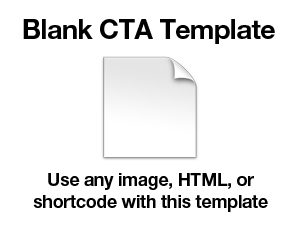
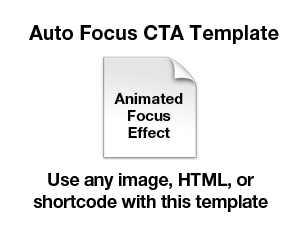
update cta thumbs

Changed region(s): [[0.06, 0.0622, 0.93, 0.1867], [0.36, 0.4044, 0.63, 0.6222]]

diff --git a/templates/clean-cta/index.php b/templates/clean-cta/index.php
@@ -50,7 +50,7 @@
   color: {{header-text-color|color}};
   text-shadow: 1px 1px 0px rgba(150, 150, 150, 0.59);
 }
-.cover p#clean-sub-head-text {
+.cover #clean-sub-head-text, #clean-sub-head-text h1,#clean-sub-head-text h2,#clean-sub-head-text h3,#clean-sub-head-text h4,#clean-sub-head-text h5,#clean-sub-head-text h6 {
   color: {{sub-header-text-color|color}};
 }
 .clean-button {
@@ -81,7 +81,10 @@
   color: #{{bottom-text-color}};
 }
 #clean-sub-head-text {
-  padding: 0px 10px 0px 10px;
+  text-align: center;
+  padding: 10px;
+  padding-left: 30px;
+  padding-right: 30px;
 }
 
 #cta-button {
@@ -94,7 +97,7 @@
 
     <h1>{{ header-text }}</h1>
 
-    <p id="clean-sub-head-text">{{sub-header-text}}</p>
+    <div id="clean-sub-head-text">{{sub-header-text}}</div>
   </div>
   <div class="button-list">
     <a href="{{link_url}}" id="cta-button" class="clean-button" href="#">{{submit-button-text}}</a>

diff --git a/templates/clean-cta/config.php b/templates/clean-cta/config.php
@@ -72,8 +72,9 @@ array(
          'label' => 'Sub Header Text',
          'description' => "Sub Header Text",
          'id'  => 'sub-header-text',
-         'type'  => 'text',
-         'default'  => 'Awesome Subheadline Text Goes here',
+         'type'  => 'wysiwyg',
+         'default'  => '<h3>Awesome Subheadline Text Goes here</h3>
+Lorem ipsum dolor sit amet, consectetur adipiscing elit. Integer vitae mauris arcu, eu pretium nisi. Praesent fringilla ornare ullamcorper. Pellentesque diam orci, sodales in blandit ut, placerat quis felis. Vestibulum at sem massa, in tempus nisi. Vivamus ut fermentum odio. Etiam porttitor faucibus volutpat. Vivamus vitae mi ligula, non hendrerit urna. Suspendisse potenti. Quisque eget massa a massa semper mollis.',
          'context'  => 'normal'
          ),
      array(
